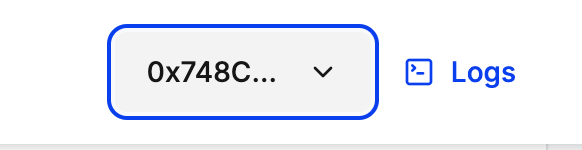
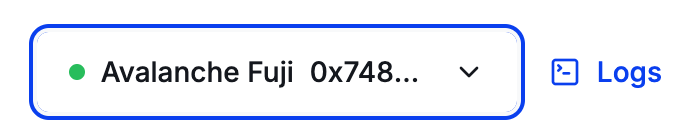
CHORE:display chain

Changed region(s): [[0.0309, 0.1429, 0.9897, 0.8571], [0.0, 0.9429, 1.0, 1.0]]

diff --git a/app/routes/_index.tsx b/app/routes/_index.tsx
@@ -51,7 +51,7 @@ export async function loader() {
           savedPrice: await getSavedReportBenchmarkPrice(feedId),
           latestReport: await fetchLatestPrice(feedId),
           status: await fetchStatus(feedId),
-        })),
+        }))
       );
     })(),
     getInterval(),
@@ -139,7 +139,7 @@ export default function Index() {
                       to={`/contract/${feed.feedId}`}
                       className={cn(
                         buttonVariants({ variant: 'ghost', size: 'icon' }),
-                        'hover:text-primary hover:ring-1 hover:ring-primary',
+                        'hover:text-primary hover:ring-1 hover:ring-primary'
                       )}
                     >
                       <FilePen className="size-6" />
@@ -183,7 +183,7 @@ export default function Index() {
           </Table>
         </CardContent>
         <CardFooter>
-          <div className="flex space-x-4">
+          <div className="flex gap-4 flex-wrap">
             <Form
               method="post"
               action="schedule/start"
@@ -323,7 +323,7 @@ export default function Index() {
           <CardContent>
             <p>
               <strong>{`${formatEther(
-                BigInt(gasCap ?? 0),
+                BigInt(gasCap ?? 0)
               )} ETH (${gasCap} WEI)`}</strong>
             </p>
             <Form

diff --git a/app/components/chain-info.tsx b/app/components/chain-info.tsx
@@ -28,10 +28,16 @@ export function ChainInfo({
       <DialogTrigger
         className={cn(
           buttonVariants({ variant: 'ghost' }),
-          'w-32 truncate flex'
+          'w-40 md:w-60 truncate flex'
         )}
       >
-        <span className="truncate">{address}</span>
+        {chain?.name && (
+          <>
+            <span className="size-2 rounded-full bg-green-500 shrink-0" />
+            <span>{`${chain.name}`}</span>
+          </>
+        )}
+        <span className="hidden md:inline truncate">{address}</span>
         <ChevronDown className="size-4 shrink-0" />
       </DialogTrigger>
       <DialogContent className="px-0 gap-2" aria-describedby={undefined}>
